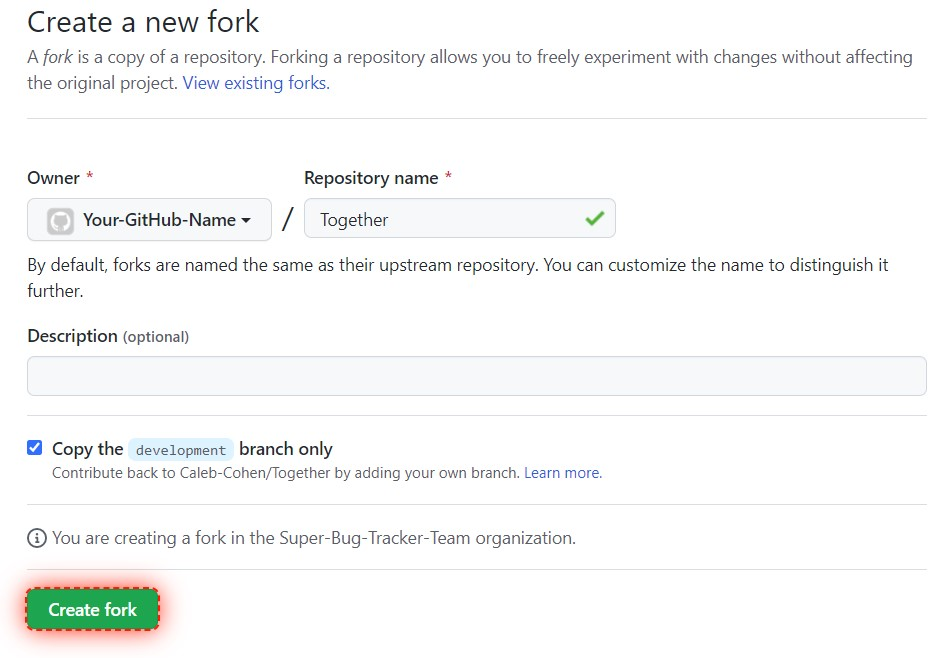
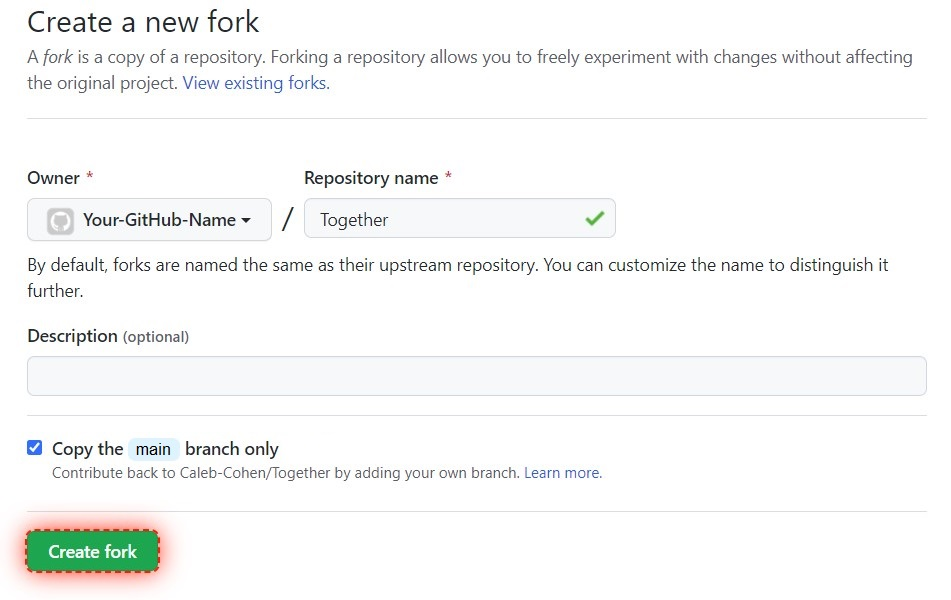
Updates contributing documentation and images (#432)
* Remove development text from CONTRIBUTING.md

Removes `development` from mermaid graph and `development` text references in the document.

* update CONTRIBUTING.md to remove development

* edge-case with testing

---------

Changed region(s): [[0.0, 0.66, 0.9758, 0.96], [0.0305, 0.24, 0.9453, 0.57], [0.0305, 0.0, 0.9758, 0.15]]

diff --git a/cypress/e2e/create-event-form.cy.js b/cypress/e2e/create-event-form.cy.js
@@ -242,7 +242,7 @@ describe("Event Creation Form", () => {
 
     const dateString = dateToYYYYMMDD(createOffsetDate(now, "Date", 2));
     const startTimeString = dateToHHMM(now);
-    const endDateString = dateToYYYYMMDD(createOffsetDate(now, "Date", 31));
+    const endDateString = dateToYYYYMMDD(createOffsetDate(now, "Date", 60));
     const endTimeString = dateToHHMM(new Date(now.getTime() + 60 * 60 * 1000));
 
     tgt.createForm.input.endDate().should("have.value", "");

diff --git a/.github/CONTRIBUTING.md b/.github/CONTRIBUTING.md
@@ -31,10 +31,9 @@ This graph approximates the structure of the official repository and some exampl
 %% The graph doesn't render in the GitHub mobile app or in code editors.
 %% Enjoy this ASCII art instead.
 %%
-%%               MVP               v1.0
-%% main        o--o-----------------o
-%%                 \               /
-%% development      o---------o---o
+%%               MVP              v1.0
+%% main        o--o------------o---o
+%%                 \          /   /
 %%                  |\       /   /
 %% a_new_feature    | o--o--o   /
 %%                  \          /
@@ -49,9 +48,6 @@ This graph approximates the structure of the official repository and some exampl
 gitGraph
   commit tag: "MVP"
   commit
-  branch development
-  checkout development
-  commit
   branch a_new_feature
   branch another_feature
   commit
@@ -59,14 +55,13 @@ gitGraph
   commit
   commit
   checkout another_feature
-  checkout development
+  checkout main
   merge a_new_feature
   checkout another_feature
   commit
-  checkout development
-  merge another_feature
   checkout main
-  merge development tag: "v1.0"
+  merge another_feature
+  commit tag: "v1.0"
 ```
 
 > 💡 (Don't be intimidated by this graph. It also confuses most of us.)
@@ -75,9 +70,7 @@ We are currently using a GitFlow-inspired workflow. GitFlow allows the productio
 
 The `main` branch is for stable production code. This branch is the working version of the Together app.
 
-The `development` branch is a stable branch for testing code on the server before merging into main. `development` is also the default branch when forking the project.
-
-Multiple `feature` branches can be checked out from the `development` branch. These `feature` branches are tied to various issues and are used to add new code. When ready, The `feature` branches are tested and merged into the `development` branch before the `development` branch is merged into `main.`
+Multiple `feature` branches can be checked out from the `main` branch. These `feature` branches are tied to various issues and are used to add new code. When ready, The `feature` branches are tested and merged into the `main` branch.
 
 ## Issues
 
@@ -115,7 +108,7 @@ Use the following process to make changes after an issue has been assigned to yo
 3. Click Create fork.  
    ![Screenshot of create fork button on GitHub](assets/contributing-create-fork.jpg)
 
-> 💡 Your new fork will include the `development` branch as the default branch.
+> 💡 Your new fork will include the `main` branch as the default branch.
 
 #### Cloning your fork
 
